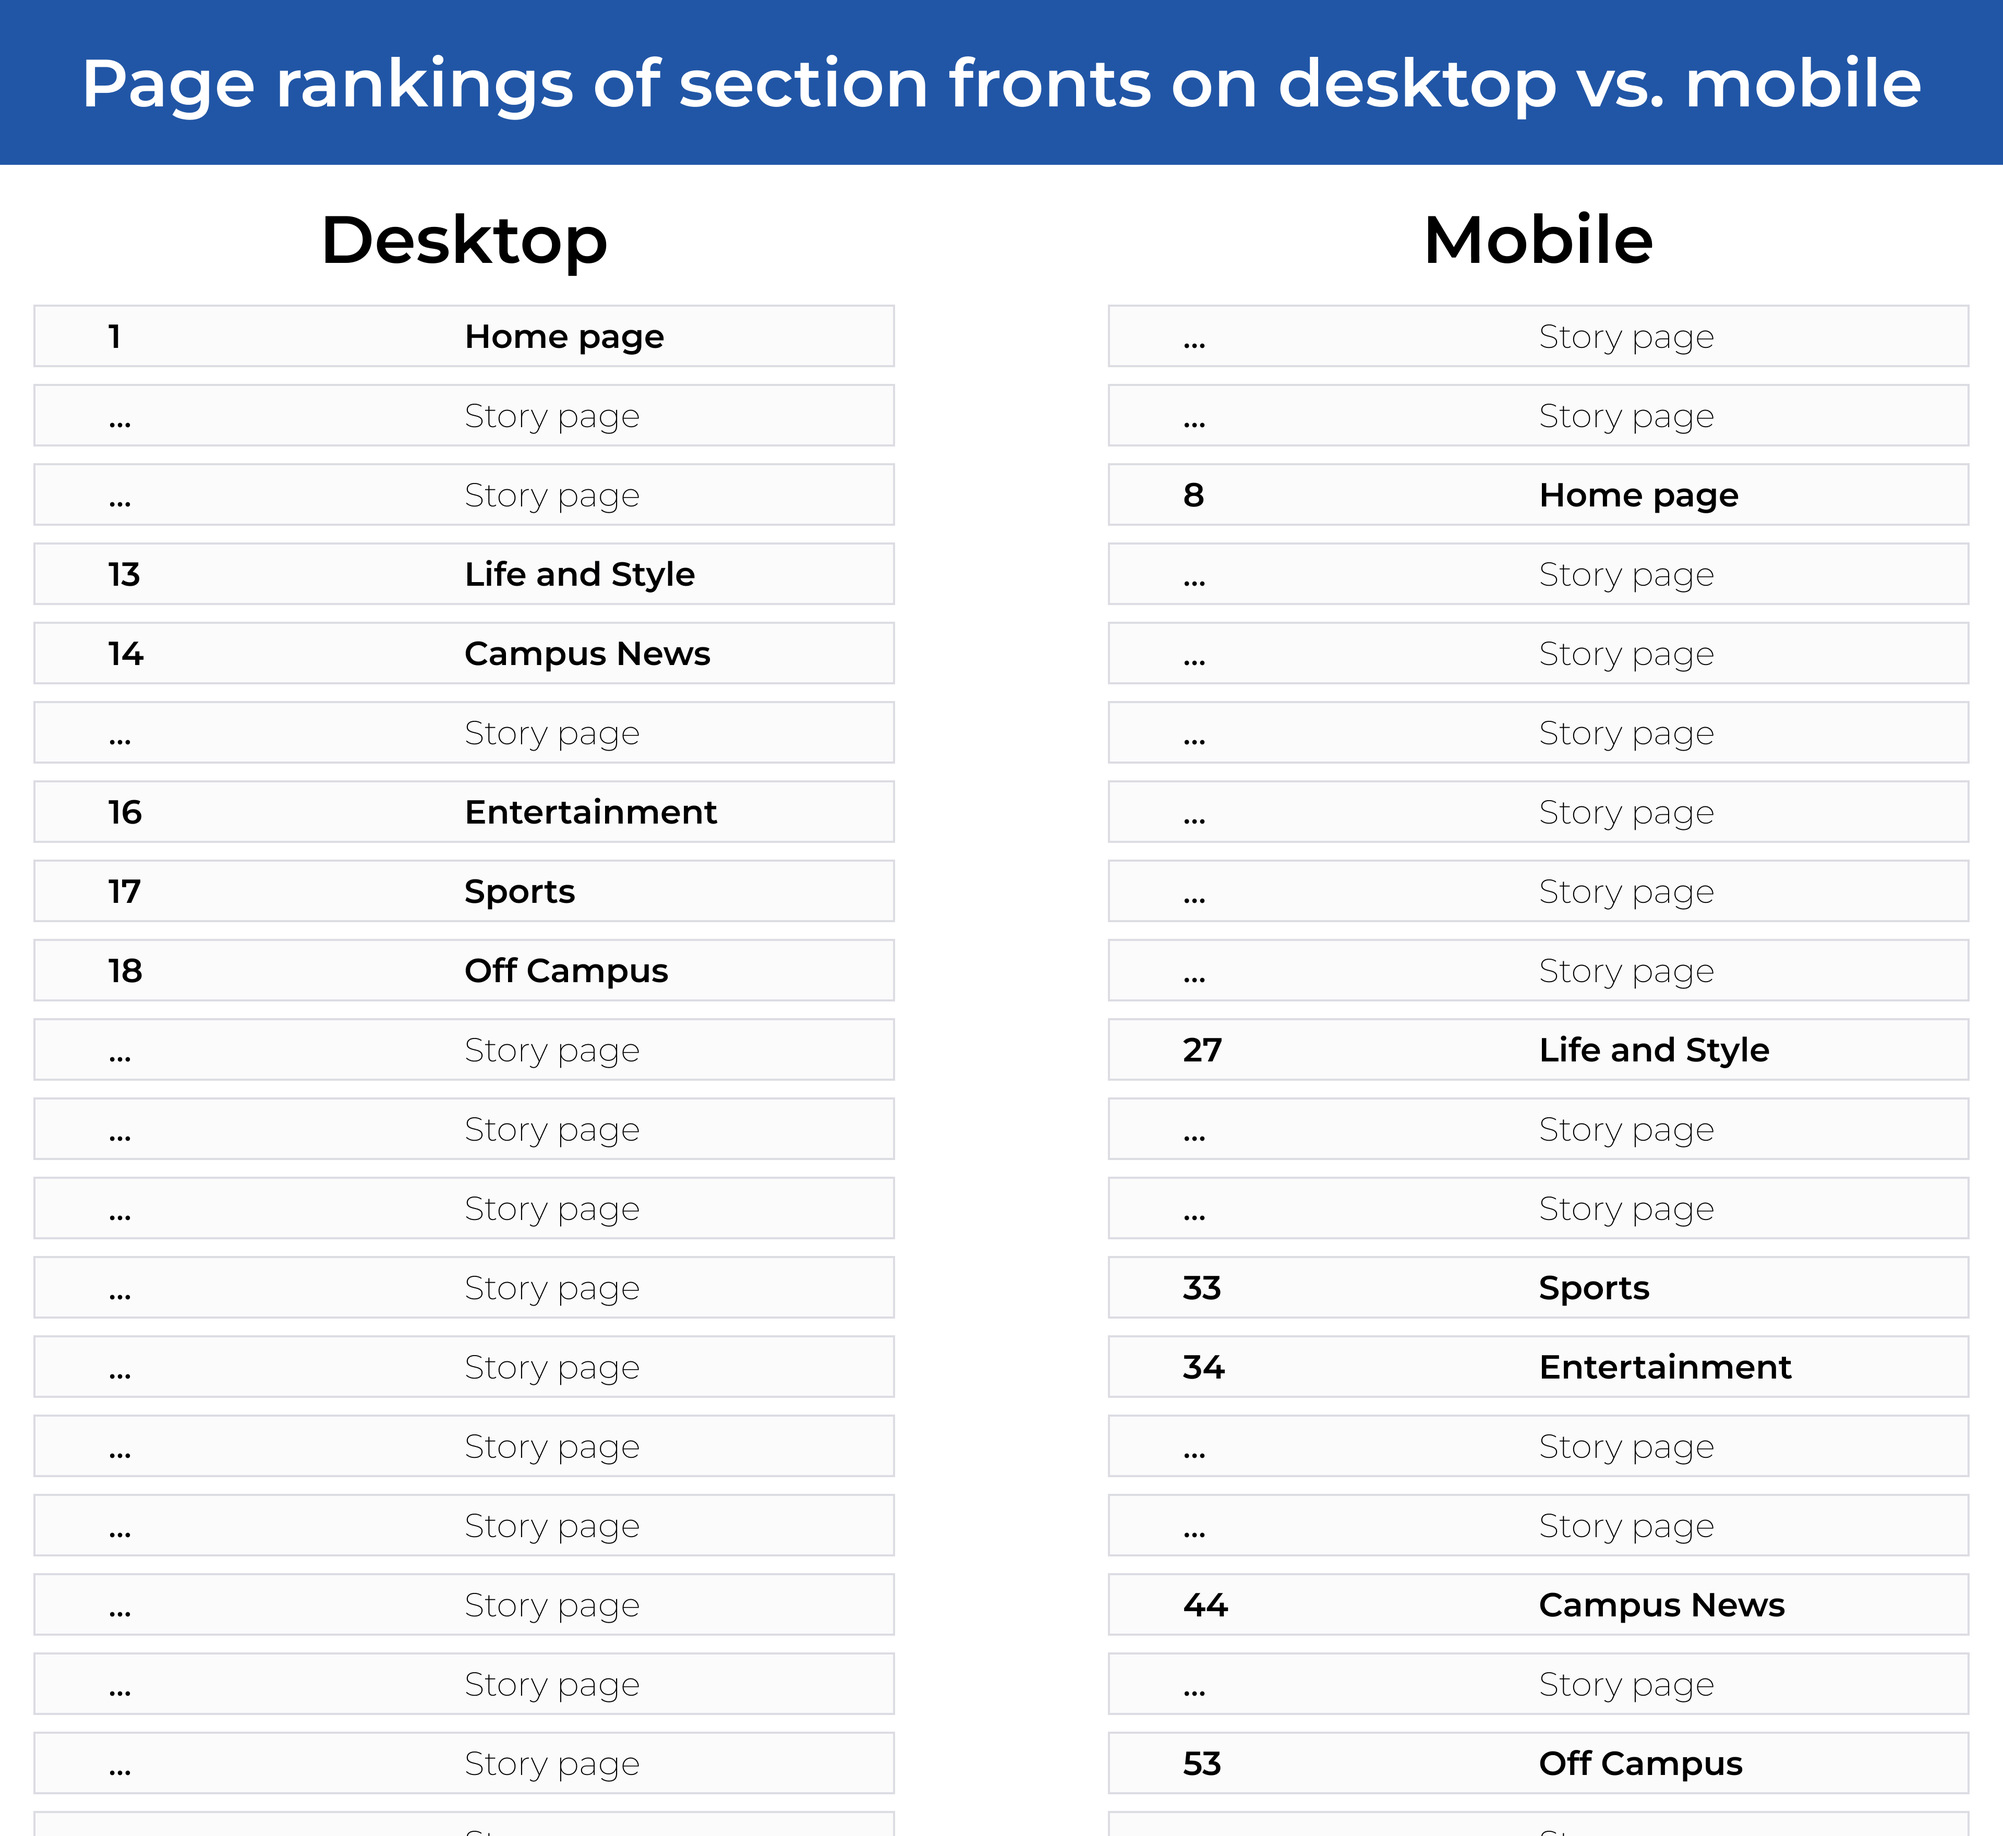
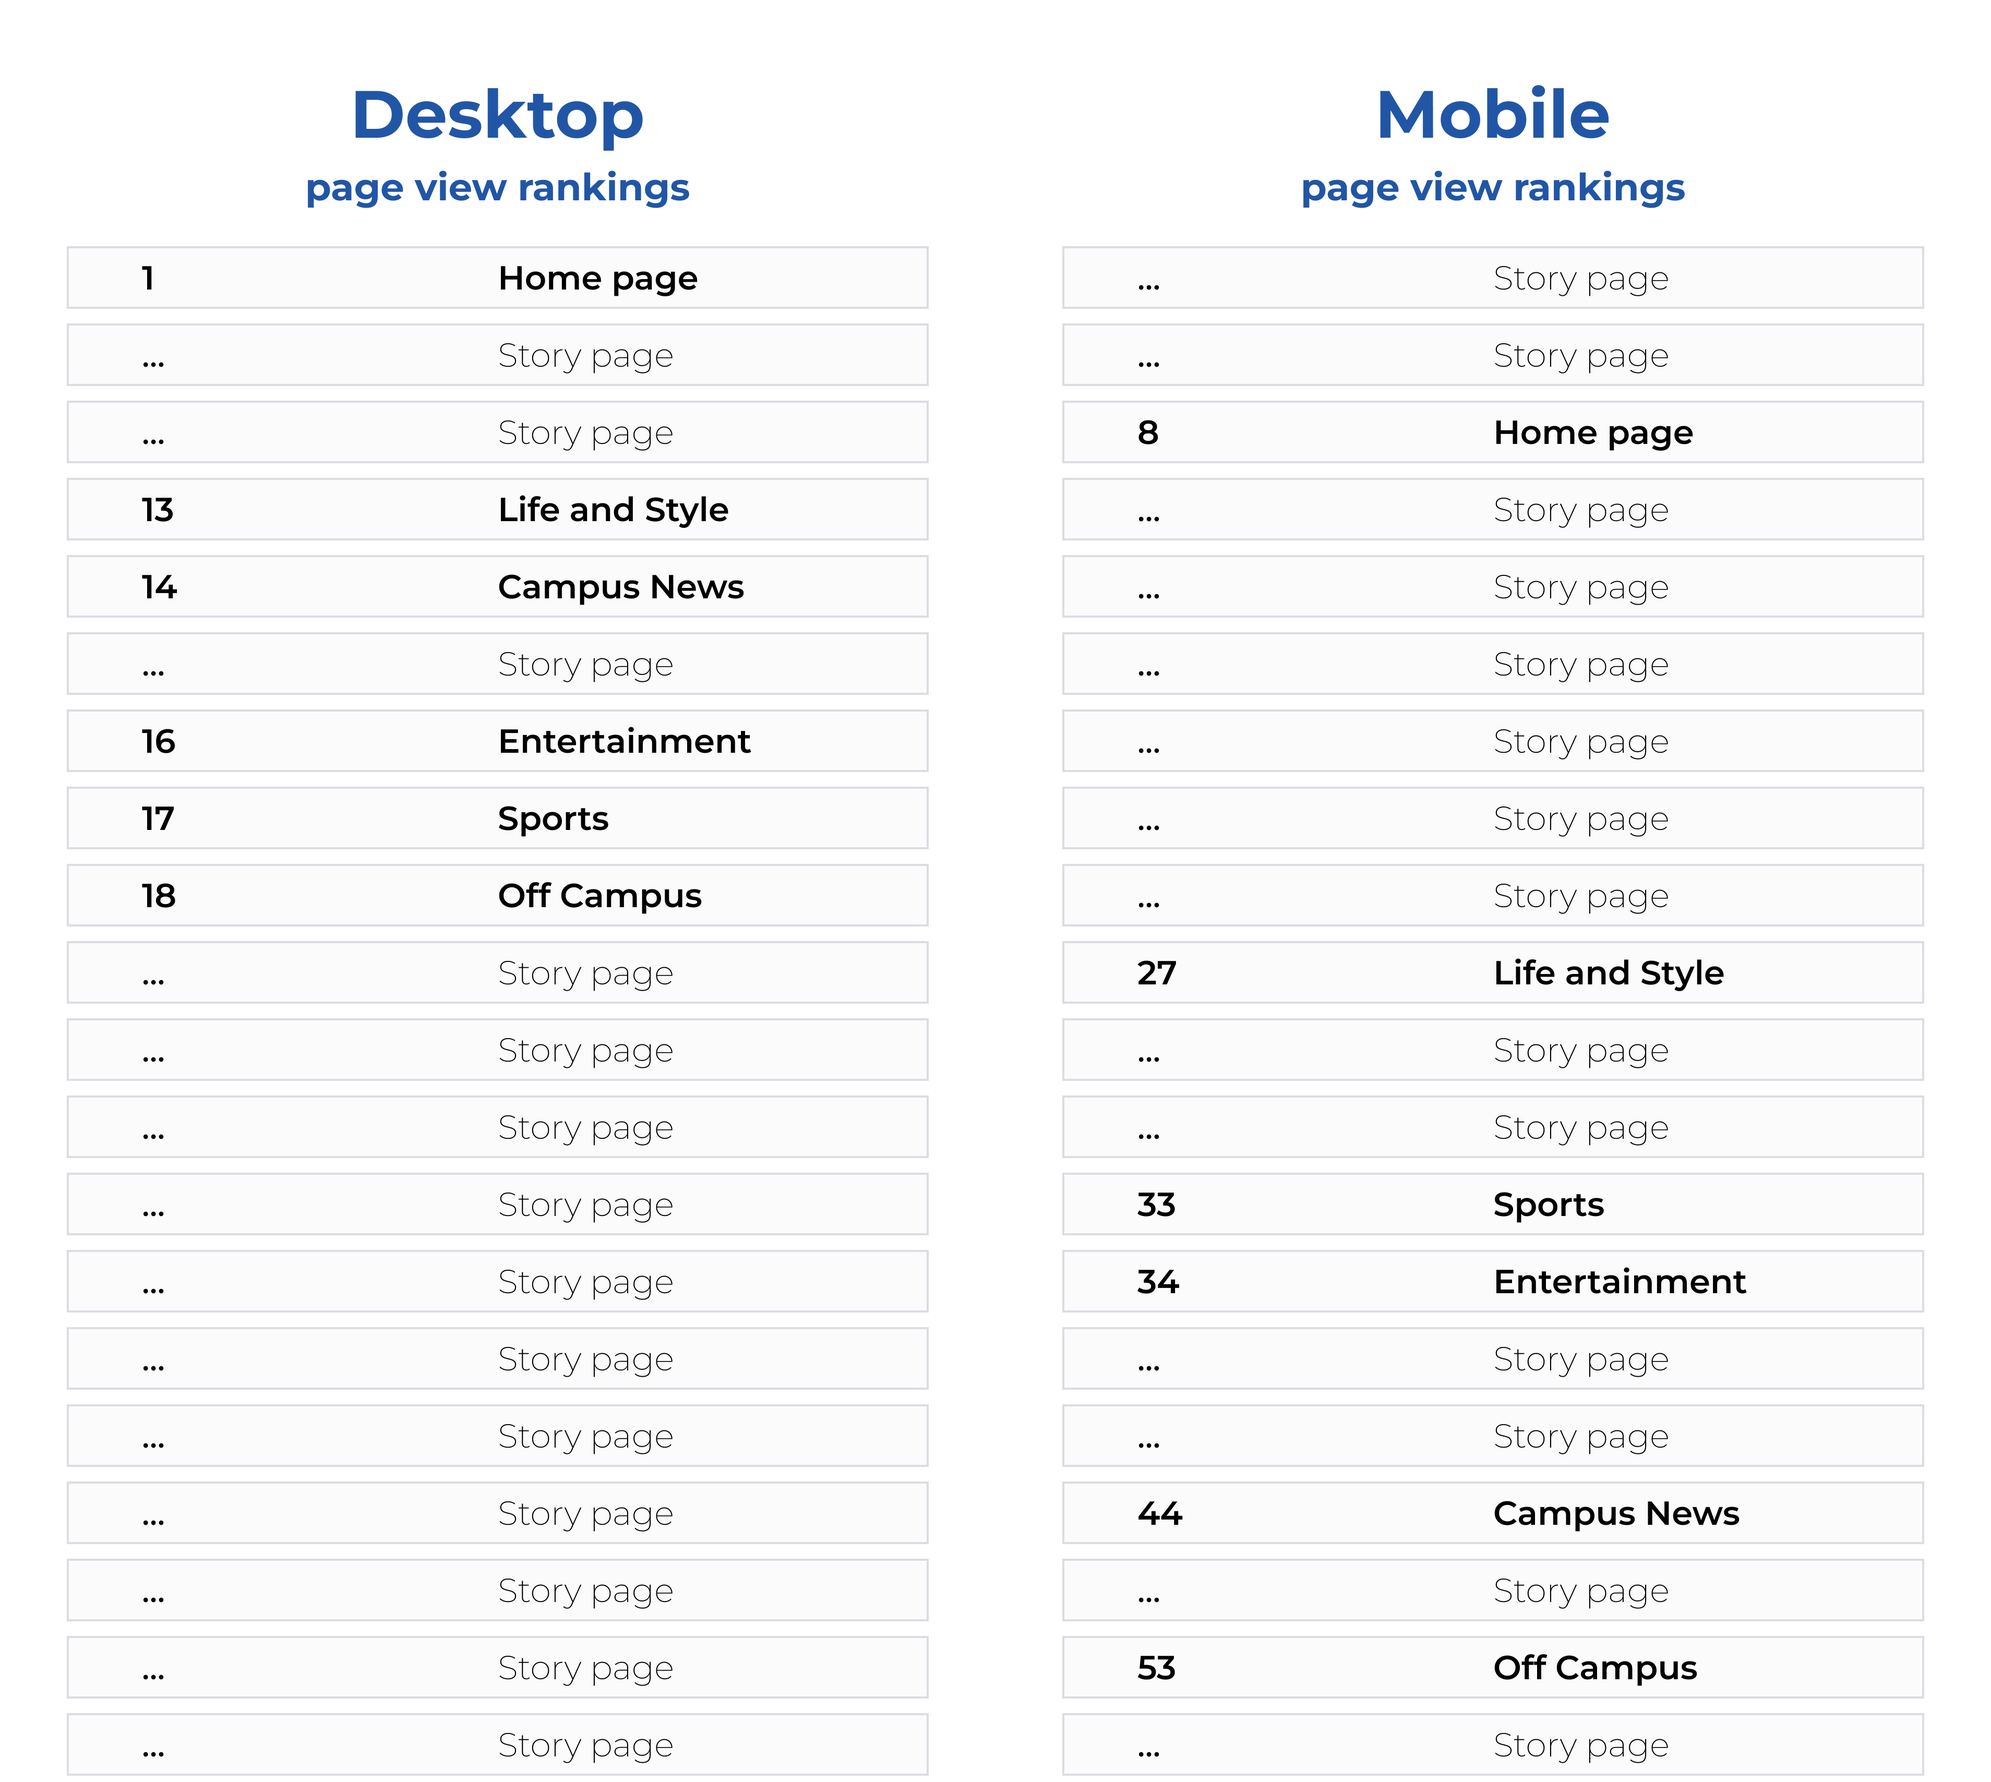
Revised Newshouse process graphics

Changed region(s): [[0.0, 0.0, 1.0, 1.0]]

diff --git a/the-newshouse-redesign.html b/the-newshouse-redesign.html
@@ -211,7 +211,7 @@
     
                     </div>
                     <div class="ContentCardImage">
-                        <img src="assets/newshouse/process/newshouse-modular-section-front.png" alt="Modular section front variants.">
+                        <img src="assets/newshouse/process/newshouse-modular-section-front.jpg" alt="Modular section front variants.">
                     </div>
 
                 </div>
